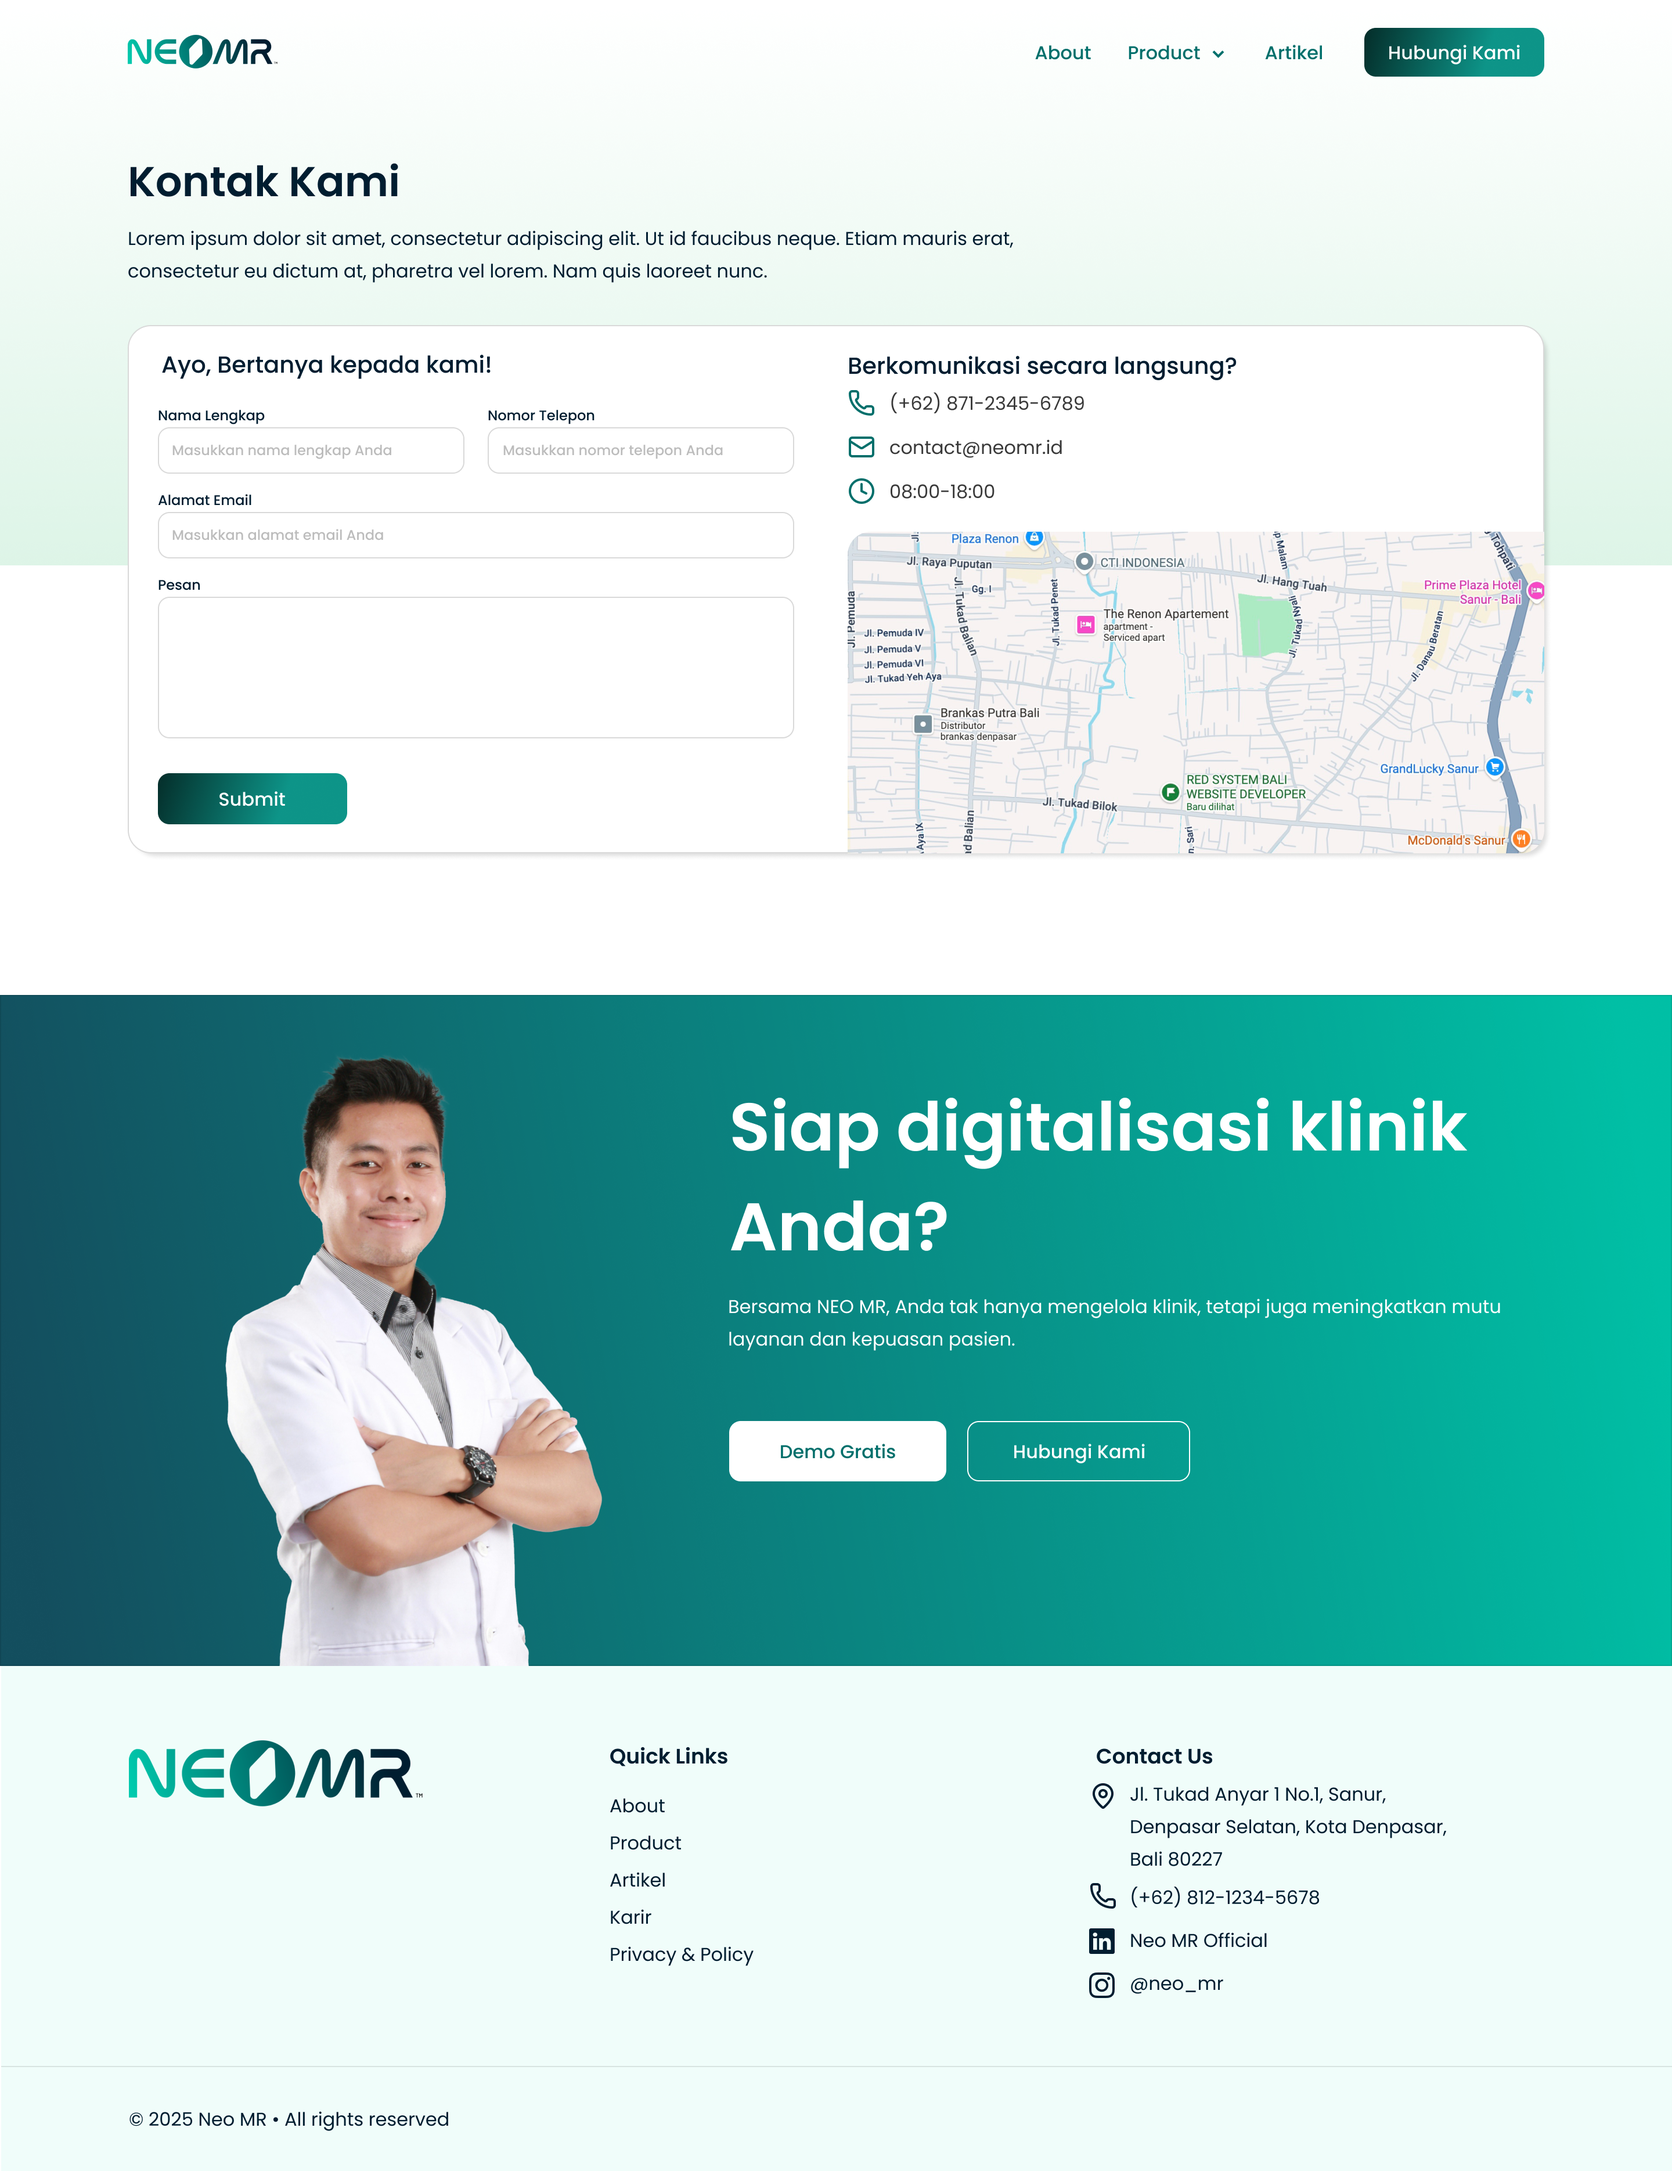
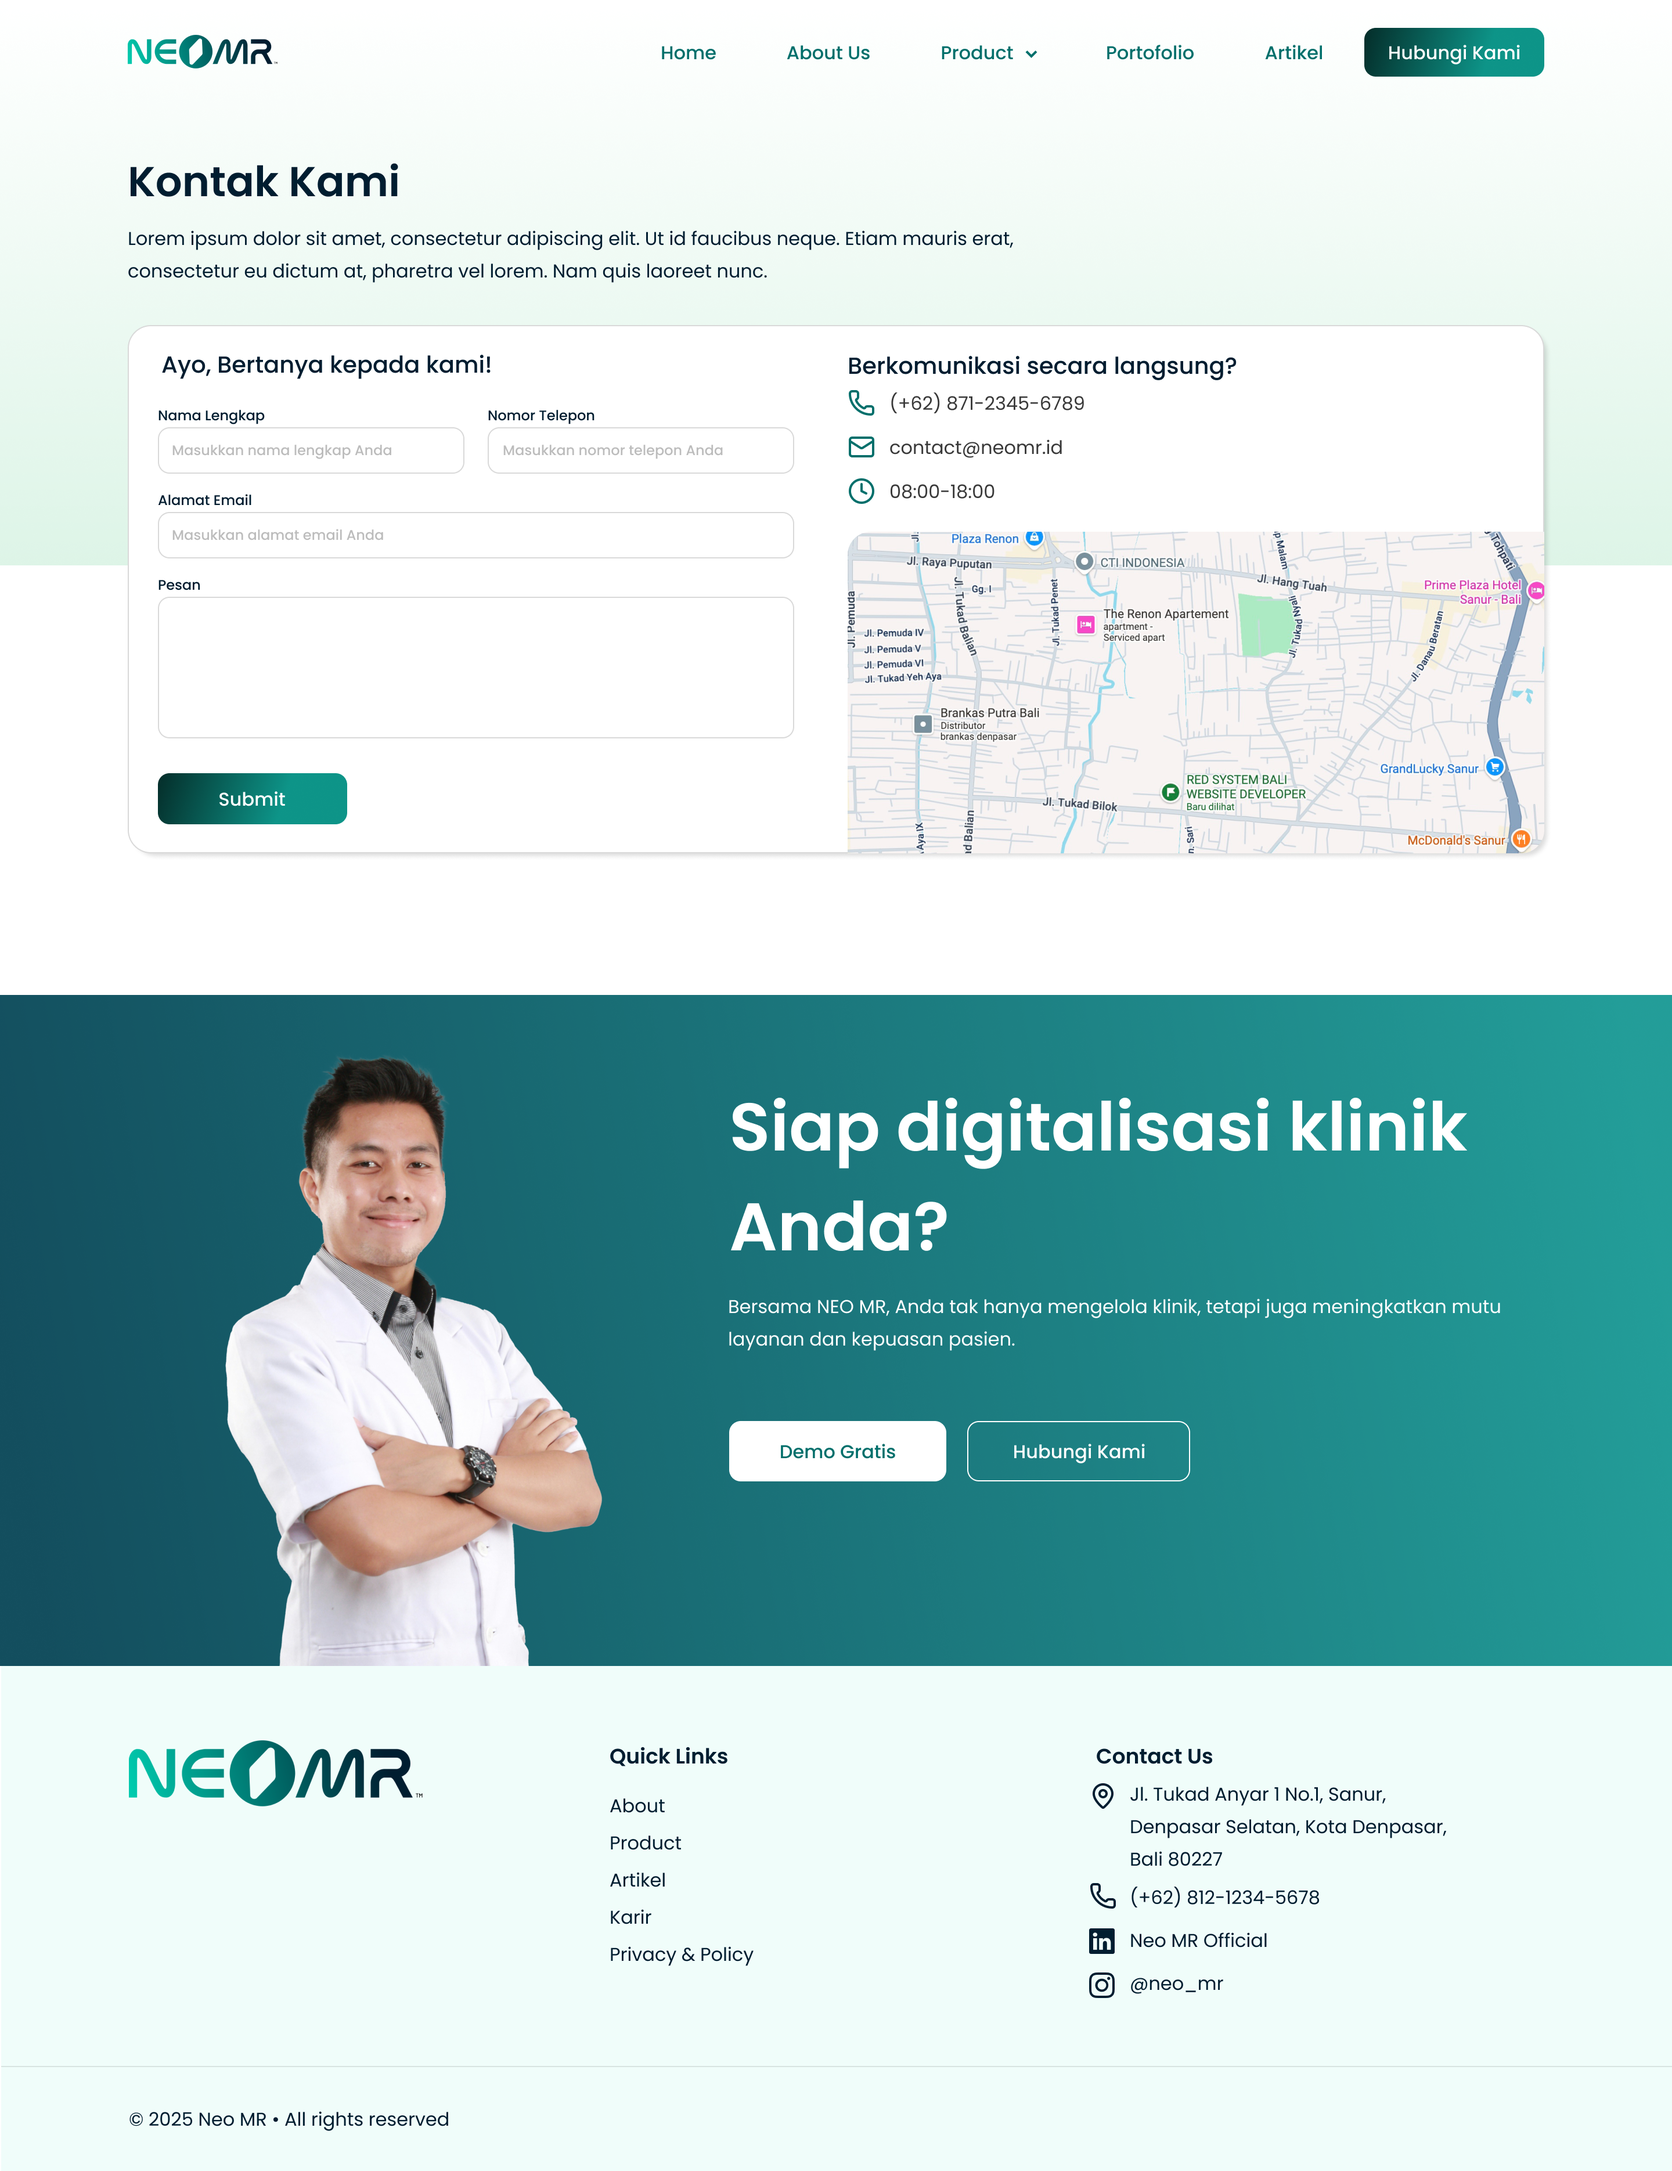
feat: portfolio page

Changed region(s): [[0.6562, 0.4342, 1.0, 0.7754], [0.6875, 0.0, 0.7188, 0.031]]

diff --git a/portfolio.html b/portfolio.html
@@ -1,0 +1,15 @@
+<!DOCTYPE html>
+<html lang="en">
+
+<head>
+  <meta charset="UTF-8">
+  <meta name="viewport" content="width=device-width, initial-scale=1.0">
+  <title>Portfolio</title>
+  <link rel="stylesheet" href="./css/style.css">
+</head>
+
+<body>
+  <img src="./images/pages/desktop/Neo MR_Portfolio.png" alt="">
+</body>
+
+</html>

diff --git a/error-404.html b/error-404.html
@@ -4,7 +4,7 @@
 <head>
   <meta charset="UTF-8">
   <meta name="viewport" content="width=device-width, initial-scale=1.0">
-  <title>Landing</title>
+  <title>Error 404</title>
   <link rel="stylesheet" href="./css/style.css">
 </head>
 

diff --git a/contact.html b/contact.html
@@ -4,7 +4,7 @@
 <head>
   <meta charset="UTF-8">
   <meta name="viewport" content="width=device-width, initial-scale=1.0">
-  <title>Landing</title>
+  <title>Contact</title>
   <link rel="stylesheet" href="./css/style.css">
 </head>
 
